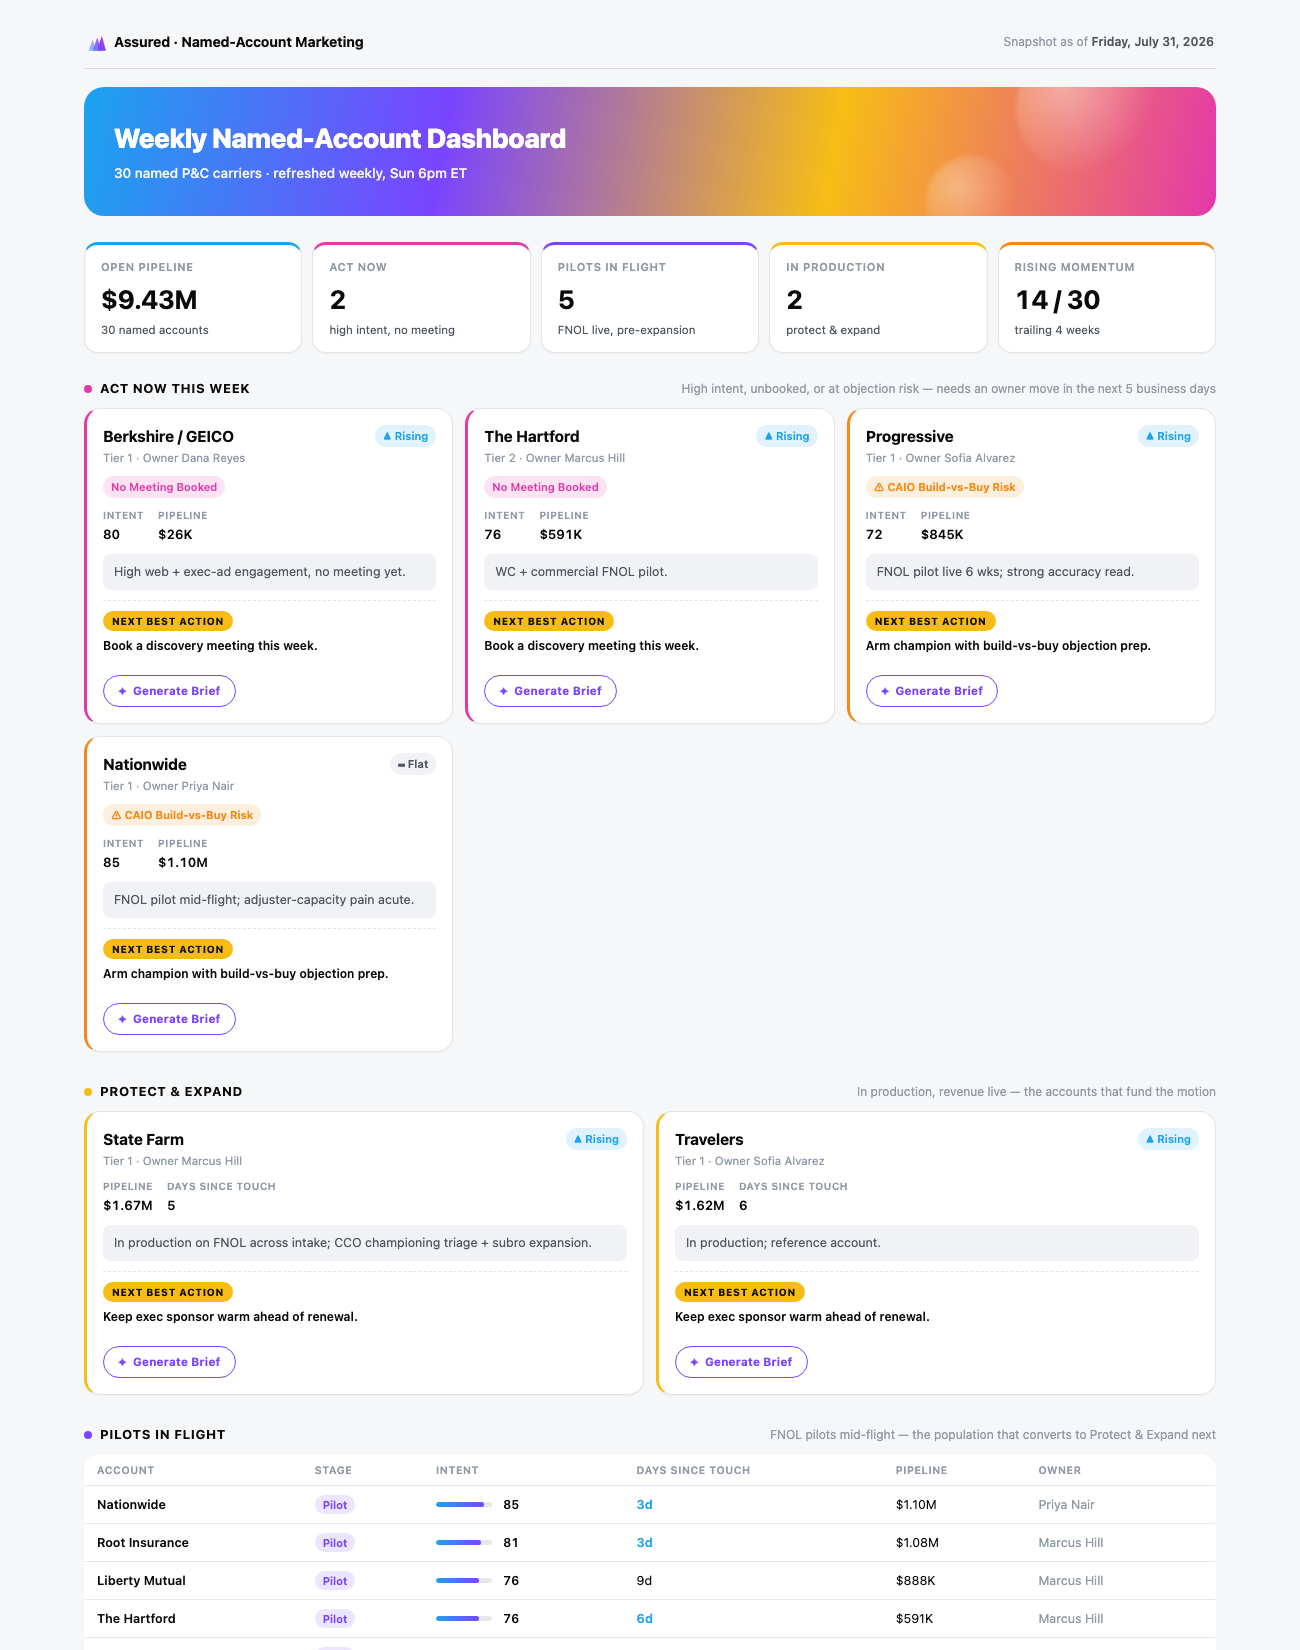
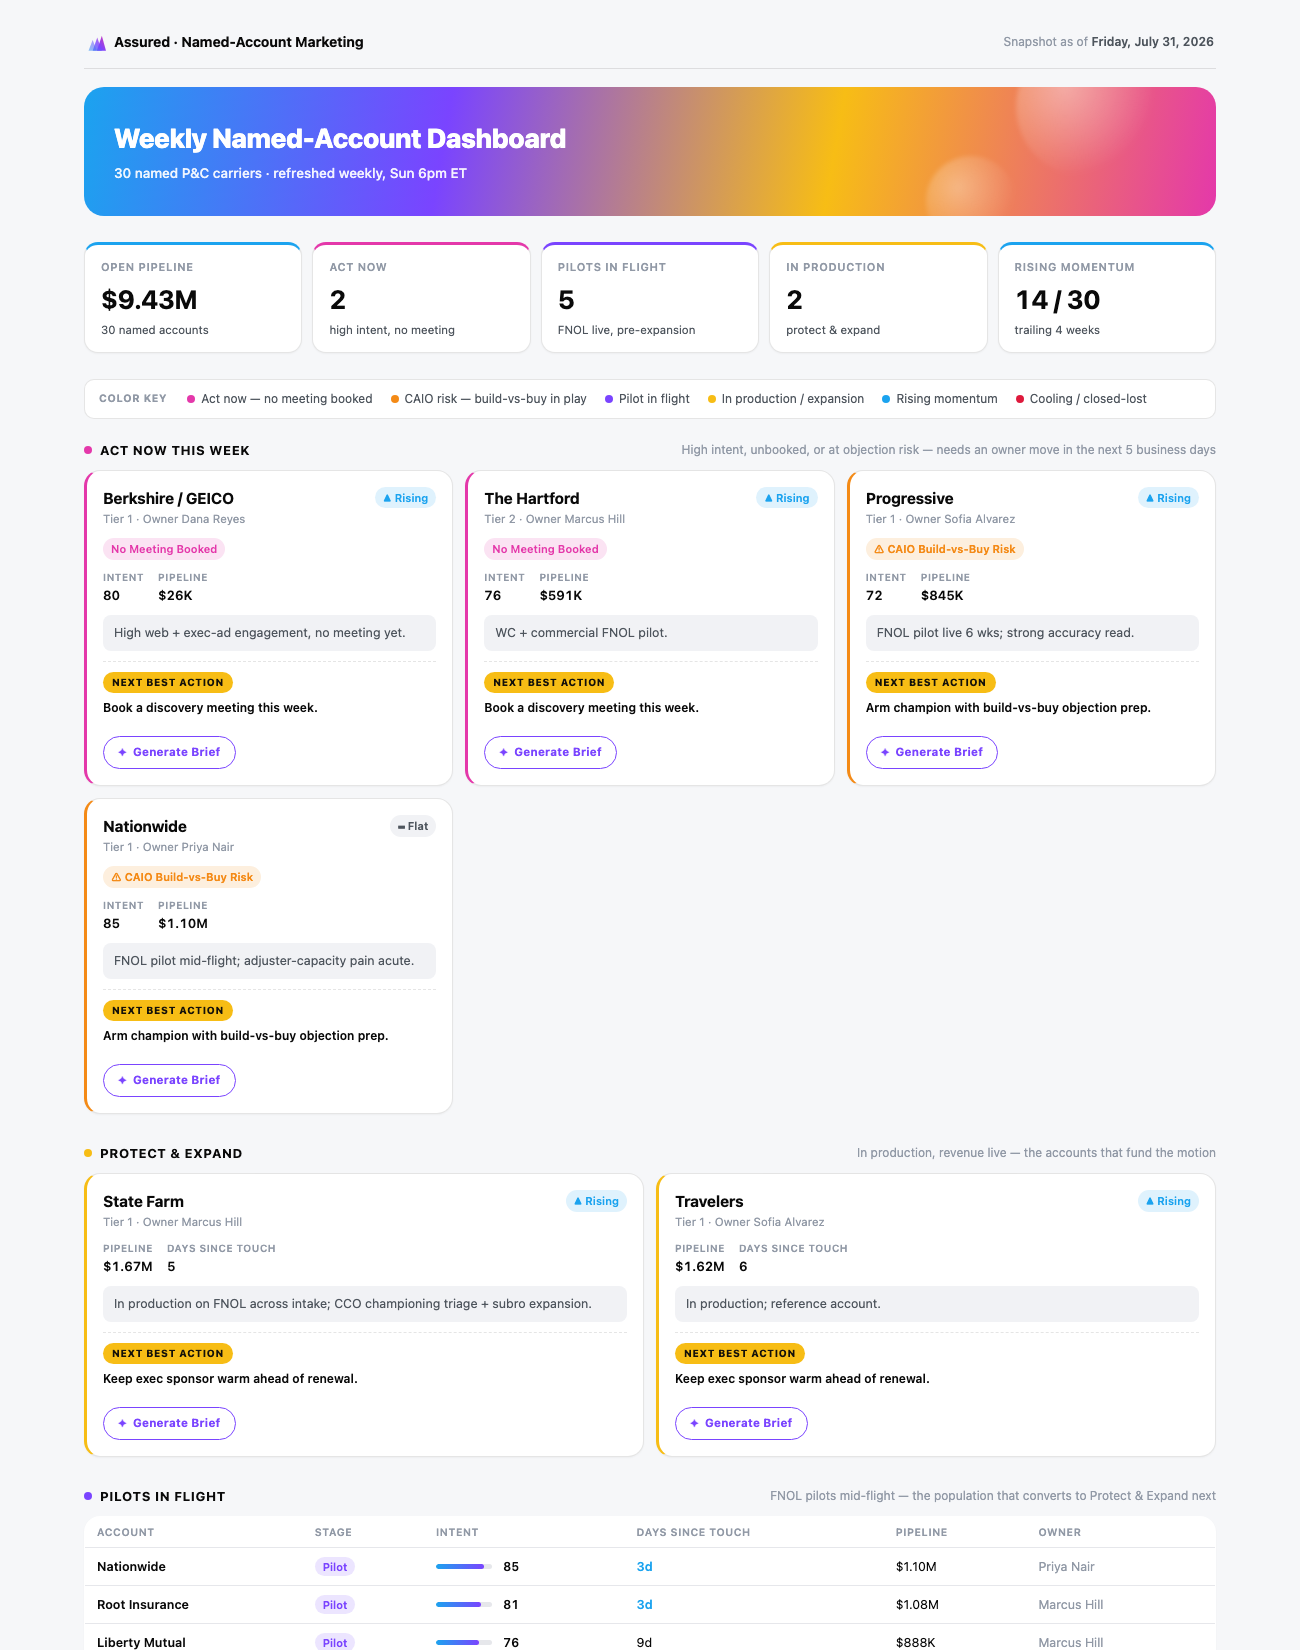
Add visible color-key legend to the dashboard
The README claims every spectrum color maps to one meaning, but that
mapping wasn't visible anywhere on the dashboard itself, and auditing
it turned up a real conflict: the "Rising Momentum" stat tile used
orange, the same color already reserved for CAIO-risk badges
elsewhere on the page. Fixed the conflict (rising momentum is blue,
matching the trend-rising badge) and added a compact color-key strip
below the stat row so the mapping is explicit at a glance, not just
inferred from scattered badges.

diff --git a/assured-system.html b/assured-system.html
@@ -77,6 +77,12 @@
   .stat-value { font-size: 26px; font-weight: 700; font-variant-numeric: tabular-nums; letter-spacing: -0.01em; }
   .stat-sub { font-size: 11.5px; color: var(--ink-secondary); margin-top: 3px; }
 
+  /* ---------- color key ---------- */
+  .color-key { display: flex; flex-wrap: wrap; align-items: center; gap: 8px 18px; padding: 10px 14px; margin-bottom: 22px; background: var(--surface); border: 1px solid var(--border); border-radius: 10px; }
+  .color-key .key-label { font-size: 10.5px; text-transform: uppercase; letter-spacing: 0.06em; color: var(--ink-muted); font-weight: 700; margin-right: 2px; }
+  .key-item { display: inline-flex; align-items: center; gap: 6px; font-size: 12px; color: var(--ink-secondary); white-space: nowrap; }
+  .key-item .dot { width: 8px; height: 8px; border-radius: 50%; display: inline-block; flex-shrink: 0; }
+
   /* ---------- section headers ---------- */
   section.block { margin-bottom: 30px; }
   .block-head { display: flex; align-items: baseline; justify-content: space-between; margin-bottom: 10px; gap: 12px; }
@@ -397,6 +403,16 @@
   </div>
 
   <section class="stats" id="stats"></section>
+
+  <div class="color-key">
+    <span class="key-label">Color key</span>
+    <span class="key-item"><span class="dot" style="background:var(--spec-magenta)"></span>Act now — no meeting booked</span>
+    <span class="key-item"><span class="dot" style="background:var(--spec-orange)"></span>CAIO risk — build-vs-buy in play</span>
+    <span class="key-item"><span class="dot" style="background:var(--spec-violet)"></span>Pilot in flight</span>
+    <span class="key-item"><span class="dot" style="background:var(--spec-gold)"></span>In production / expansion</span>
+    <span class="key-item"><span class="dot" style="background:var(--spec-blue)"></span>Rising momentum</span>
+    <span class="key-item"><span class="dot" style="background:var(--spec-red)"></span>Cooling / closed-lost</span>
+  </div>
 
   <section class="block">
     <div class="block-head">
@@ -842,7 +858,7 @@
     { label: 'Act Now', value: actNowList.length, sub: 'high intent, no meeting', color: 'var(--spec-magenta)' },
     { label: 'Pilots in Flight', value: pilotCount, sub: 'FNOL live, pre-expansion', color: 'var(--spec-violet)' },
     { label: 'In Production', value: prodCount, sub: 'protect & expand', color: 'var(--spec-gold)' },
-    { label: 'Rising Momentum', value: risingCount + ' / 30', sub: 'trailing 4 weeks', color: 'var(--spec-orange)' }
+    { label: 'Rising Momentum', value: risingCount + ' / 30', sub: 'trailing 4 weeks', color: 'var(--spec-blue)' }
   ].map(s => `<div class="stat-tile" style="border-top-color:${s.color}"><div class="stat-label">${s.label}</div><div class="stat-value">${s.value}</div><div class="stat-sub">${s.sub}</div></div>`).join('');
 
   // ---------- act now cards ----------

diff --git a/dashboard.html b/dashboard.html
@@ -77,6 +77,12 @@
   .stat-value { font-size: 26px; font-weight: 700; font-variant-numeric: tabular-nums; letter-spacing: -0.01em; }
   .stat-sub { font-size: 11.5px; color: var(--ink-secondary); margin-top: 3px; }
 
+  /* ---------- color key ---------- */
+  .color-key { display: flex; flex-wrap: wrap; align-items: center; gap: 8px 18px; padding: 10px 14px; margin-bottom: 22px; background: var(--surface); border: 1px solid var(--border); border-radius: 10px; }
+  .color-key .key-label { font-size: 10.5px; text-transform: uppercase; letter-spacing: 0.06em; color: var(--ink-muted); font-weight: 700; margin-right: 2px; }
+  .key-item { display: inline-flex; align-items: center; gap: 6px; font-size: 12px; color: var(--ink-secondary); white-space: nowrap; }
+  .key-item .dot { width: 8px; height: 8px; border-radius: 50%; display: inline-block; flex-shrink: 0; }
+
   /* ---------- section headers ---------- */
   section.block { margin-bottom: 30px; }
   .block-head { display: flex; align-items: baseline; justify-content: space-between; margin-bottom: 10px; gap: 12px; }
@@ -257,6 +263,16 @@
   </div>
 
   <section class="stats" id="stats"></section>
+
+  <div class="color-key">
+    <span class="key-label">Color key</span>
+    <span class="key-item"><span class="dot" style="background:var(--spec-magenta)"></span>Act now — no meeting booked</span>
+    <span class="key-item"><span class="dot" style="background:var(--spec-orange)"></span>CAIO risk — build-vs-buy in play</span>
+    <span class="key-item"><span class="dot" style="background:var(--spec-violet)"></span>Pilot in flight</span>
+    <span class="key-item"><span class="dot" style="background:var(--spec-gold)"></span>In production / expansion</span>
+    <span class="key-item"><span class="dot" style="background:var(--spec-blue)"></span>Rising momentum</span>
+    <span class="key-item"><span class="dot" style="background:var(--spec-red)"></span>Cooling / closed-lost</span>
+  </div>
 
   <section class="block">
     <div class="block-head">
@@ -558,7 +574,7 @@
     { label: 'Act Now', value: actNowList.length, sub: 'high intent, no meeting', color: 'var(--spec-magenta)' },
     { label: 'Pilots in Flight', value: pilotCount, sub: 'FNOL live, pre-expansion', color: 'var(--spec-violet)' },
     { label: 'In Production', value: prodCount, sub: 'protect & expand', color: 'var(--spec-gold)' },
-    { label: 'Rising Momentum', value: risingCount + ' / 30', sub: 'trailing 4 weeks', color: 'var(--spec-orange)' }
+    { label: 'Rising Momentum', value: risingCount + ' / 30', sub: 'trailing 4 weeks', color: 'var(--spec-blue)' }
   ].map(s => `<div class="stat-tile" style="border-top-color:${s.color}"><div class="stat-label">${s.label}</div><div class="stat-value">${s.value}</div><div class="stat-sub">${s.sub}</div></div>`).join('');
 
   // ---------- act now cards ----------
